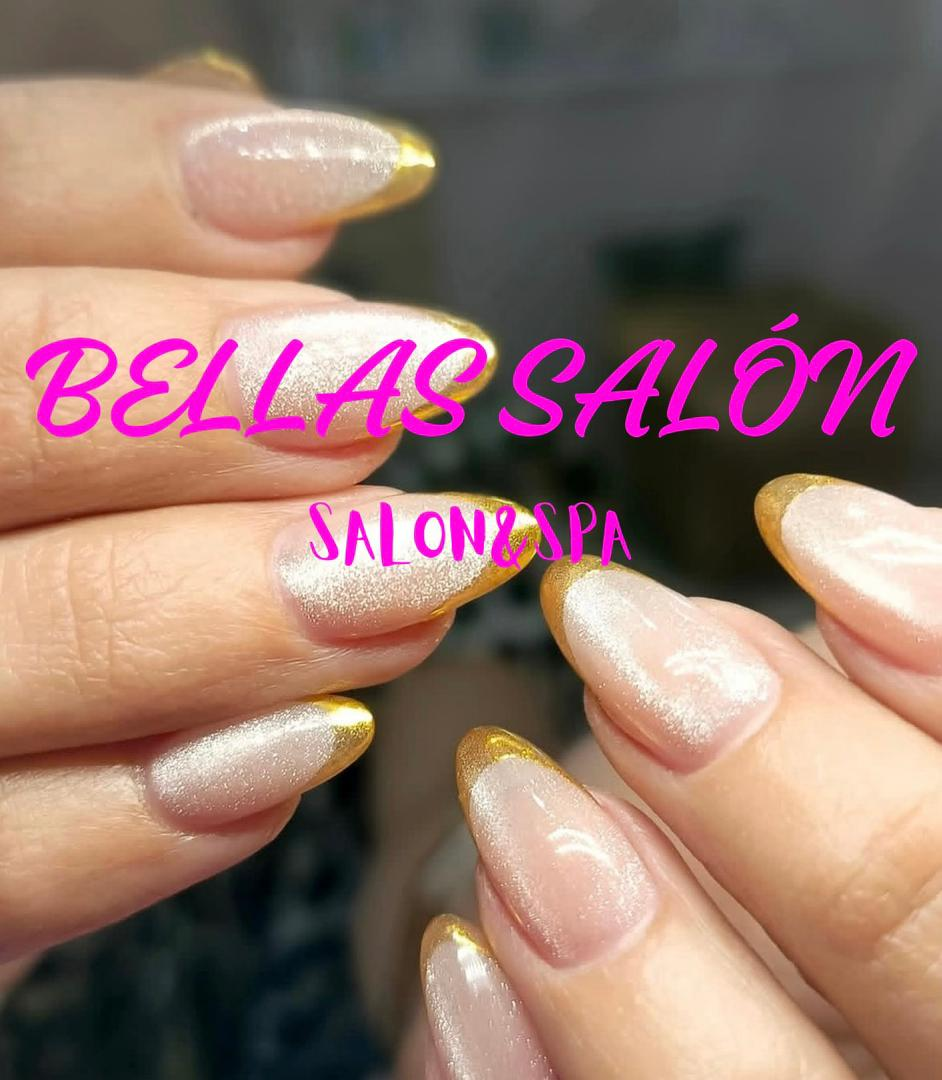
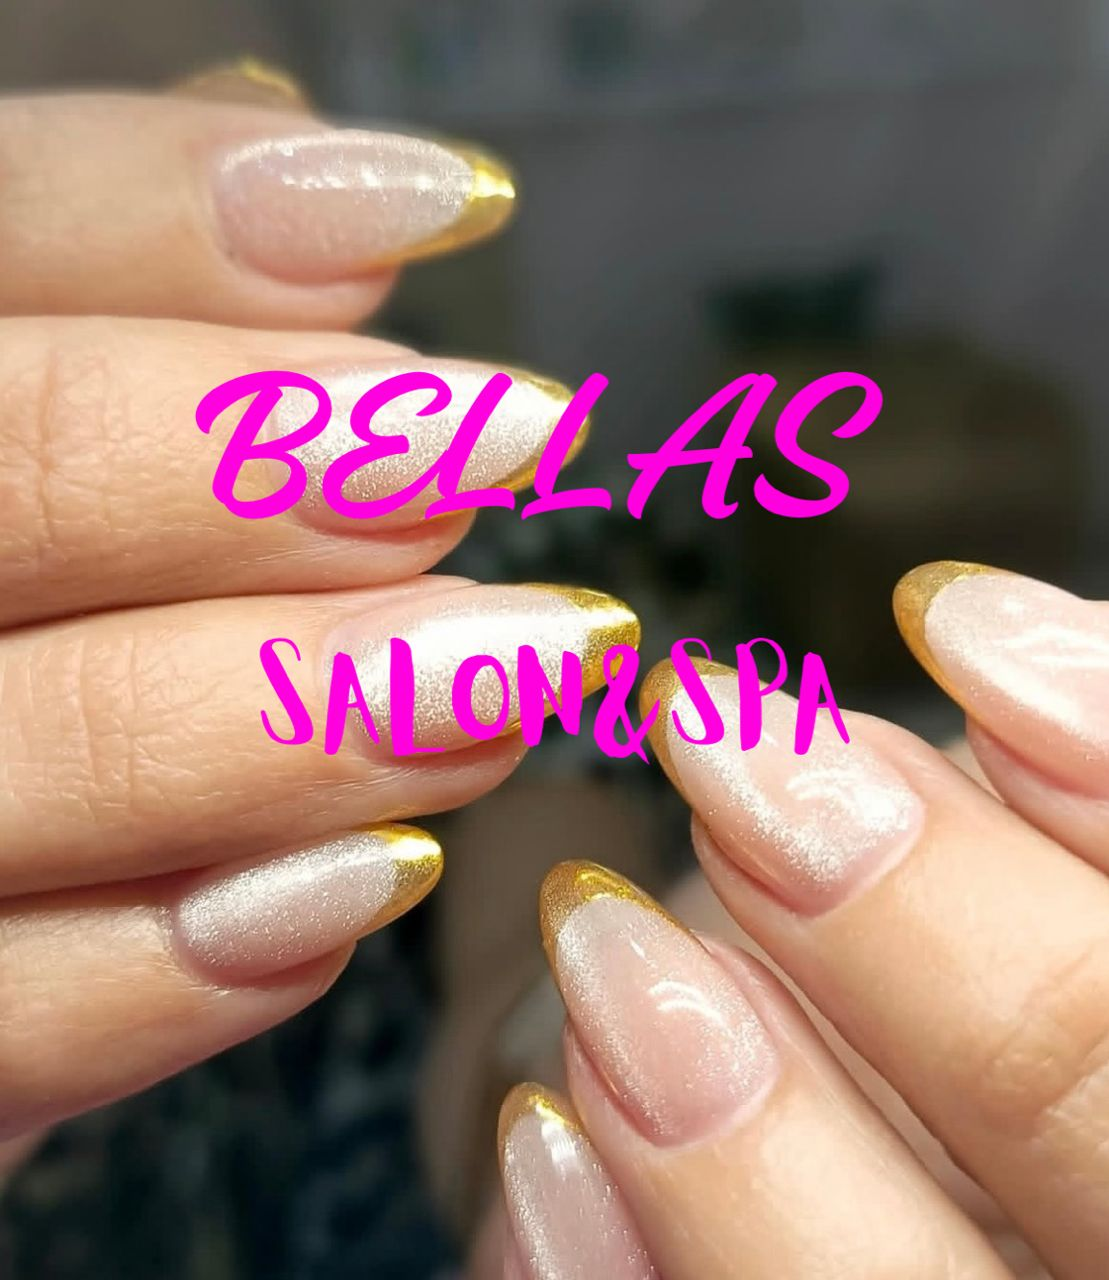
Add files via upload

diff --git a/credenciales.html b/credenciales.html
@@ -11,11 +11,11 @@
 
     <section class="main-info">
         <div class="container">
-            <h1 class="brand-name">BELLAS SALON SALON&SPA</h1>
+            <h1 class="brand-name">BELLAS  <br>SALON&SPA</h1>
             <div class="content-wrapper">
                 <div class="text-block">
                     <h2>Nuestra Trayectoria</h2>
-                    <p>Con más de <strong>12 años de experiencia</strong>, BELLAS SALON SALON&SPA ha nacido de la pasión por resaltar la belleza natural de cada mujer. Nos especializamos en <strong> manicura</strong> y <strong>tratamientos capilares avanzados ademas de ventas de productos</strong>, utilizando tecnología e productos de alta gama.</p>
+                    <p>Con más de <strong>  8 años de experiencia</strong>, BELLAS SALON&SPA ha nacido de la pasión por resaltar la belleza natural de cada mujer. Nos especializamos en <strong> manicura</strong> y <strong>tratamientos capilares avanzados ademas de ventas de productos</strong>, utilizando tecnología e productos de alta gama.</p>
                 </div>
                 
                 <div class="data-block">
@@ -23,7 +23,6 @@
                     <ul>
                         <li><strong>RIF:</strong> J-405236990</li>
                         <li><strong>Dirección:</strong> C.C Costa Granada, Local 8, Puerto Ordaz, Venezuela</li>
-                        <li><strong>Email:</strong> contacto@bellassalon.com</li>
                         <li><strong>Teléfono Personal:</strong> +58 414 930 5756</li>
                     </ul>
                 </div>
@@ -78,16 +77,16 @@
                 <div class="team-img-circle">
                     <img src="./img/imgt (1).jpeg" alt="Especialista en Uñas">
                 </div>
-                <h4>Ana</h4>
-                <span>Master en Nail Art</span>
+                <h4>Yani</h4>
+                <span>manicurista</span>
             </div>
 
             <div class="team-card">
                 <div class="team-img-circle">
                     <img src="./img/imgt (2).jpeg" alt="Especialista Capilar">
                 </div>
-                <h4>Carla</h4>
-                <span>Especialista Capilar</span>
+                <h4>Luisa</h4>
+                <span>estilista capilar</span>
             </div>
 
 
@@ -99,8 +98,8 @@
                 <div class="team-img-circle">
                     <img src="./img/imgt (5).jpeg" alt="Especialista Capilar">
                 </div>
-                <h4>fernanda</h4>
-                <span>Especialista Capilar</span>
+                <h4>Maria</h4>
+                <span>manicurista profesional</span>
             </div>
 
 
@@ -114,8 +113,8 @@
                 <div class="team-img-circle">
                     <img src="./img/imgt (7).jpeg" alt="Especialista Capilar">
                 </div>
-                <h4>mariana</h4>
-                <span>Especialista Capilar</span>
+                <h4>Heidi</h4>
+                <span>manicurista profesional</span>
             </div>
 
 
@@ -123,7 +122,7 @@
                 <div class="team-img-circle">
                     <img src="./img/imgt (8).jpeg" alt="Especialista Capilar">
                 </div>
-                <h4>luisa</h4>
+                <h4>Mari</h4>
                 <span>Especialista en manos y pies</span>
             </div>
 
@@ -166,7 +165,7 @@
     <footer class="main-footer">
         <div class="footer-container">
             <div class="footer-section">
-                <h4 class="footer-logo">BELLAS SALON SALON&SPA</h4>
+                <h4 class="footer-logo">BELLAS  SALON&SPA</h4>
                 <p class="footer-tagline">donde el lujo se encuentra con la belleza</p>
             </div>
 
@@ -176,12 +175,11 @@
                 <a href="credenciales.html">credenciales</a>
             </nav>
             <div class="footer-socials">
-                <a href="#" class="social-circle">IG</a>
-                <a href="#" class="social-circle">FB</a>
-                <a href="#" class="social-circle">TK</a>
+                <a href="https://www.instagram.com/bellassalonpzo?igsh=MW0xenlsbHk0dmU0dg==" class="social-circle">IG</a>
+ 
             </div>
             <div class="footer-copyright">
-                <p>&copy; 2026 BELLAS SALON SALON&SPA. Todos los derechos reservados.</p>
+                <p>&copy; 2026 BELLAS  SALON&SPA. Todos los derechos reservados.</p>
             </div>
         </div>
     </footer>

diff --git a/index.html b/index.html
@@ -3,8 +3,7 @@
 <head>
     <meta charset="UTF-8">
     <meta name="viewport" content="width=device-width, initial-scale=1.0">
-    <title>BELLAS salon
-        SALON&SPA</title>
+    <title>BELLAS salon&SPA</title>
     <link rel="stylesheet" href="styles1.css">
     <link href="https://fonts.googleapis.com/css2?family=Playfair+Display:ital,wght@0,400;0,700;1,400&family=Poppins:wght@300;400&display=swap" rel="stylesheet">
 </head>
@@ -12,8 +11,8 @@
 
 <nav class="navbar">
     <div class="nav-container">
-        <div class="nav-logo">BELLAS SALON <br>
-            <p class="subtitle1"> salon&SPA</p>
+        <div class="nav-logo">BELLAS <br>
+            <p class="subtitle1"> salon&SPA,ca</p>
         </div>
 
         <button class="menu-toggle" id="btn-menu">
@@ -59,21 +58,21 @@
     <header class="hero">
         <div class="hero-content">
             <div class="logo-box">
-                <h1>BELLAS SALON</h1>
-                <p>salon&spa</p>
+                <h1>BELLAS</h1>
+                <p class="subtitle">SALON&SPA,ca</p>
             </div>
             <p class="hero-tagline">Transforma tu belleza, por dentro y por fuera en BELLAS SALON SALON&SPA.</p>
             <a href="reservar.html" class="btn-black">RESERVAR CITA</a>
         </div>
         <div class="hero-image">
-            <img src="./img/logo.jpeg" alt="Modelo Principal">
+            <img src="./img/logo (2).jpeg" alt="Modelo Principal">
         </div>
     </header>
 
     <section class="intro">
         <div class="intro-title">
             <span class="label">UN LUGAR DONDE</span>
-            <h2>BELLEZA & LUJO <span class="italic-pink">se encuentran</span></h2>
+            <h2>BELLEZA & LUJO <span class="italic-pink"> <br>se encuentran</span></h2>
         </div>
         <div class="intro-text">
             <p>Bienvenido a BELLAS SALON, donde la belleza y el lujo se encuentran.</p>
@@ -89,7 +88,7 @@
             <div class="service-info">
                 <h3 class="cursive-title">Tratamientos capilares</h3>
                 <p>¡Bienvenido a nuestro mundo de perfeccion y agenda un servicios capilar unico! Nuestros servicios de peluqueria están diseñados para realzar tu belleza natural y sacar tu brillo interior.</p>
-                <a href="reservar" class="btn-outline">RESERVAR</a>
+                <a href="reservar.html" class="btn-outline">RESERVAR</a>
             </div>
            
         </article>
@@ -127,16 +126,15 @@
             </div>
 
             <div class="footer-socials">
-                <a href="#" class="social-circle">IG</a>
-                <a href="#" class="social-circle">FB</a>
-                <a href="#" class="social-circle">TK</a>
+                <a href="https://www.instagram.com/bellassalonpzo?igsh=MW0xenlsbHk0dmU0dg==" class="social-circle">IG</a>
+
            
             </div>
 
         </div>
 
         <div class="footer-copyright">
-            <p>&copy; 2026 BELLAS SALON SALON&SPA. Todos los derechos reservados.</p>
+            <p>&copy; 2026 BELLAS SALON&SPA,ca. Todos los derechos reservados.</p>
         </div>
     </footer>
 

diff --git a/reservar.html b/reservar.html
@@ -86,7 +86,7 @@
     <footer class="main-footer">
         <div class="footer-container">
             <div class="footer-brand">
-                <h4 class="footer-logo">BELLAS SALON SALON&SPA</h4>
+                <h4 class="footer-logo">BELLAS  SALON&SPA,ca</h4>
                 <p>donde la belleza y el lujo se encuentran.</p>
             </div>
 
@@ -98,13 +98,11 @@
             </nav>
 
             <div class="footer-socials">
-                <a href="#" class="social-btn">IG</a>
-                <a href="#" class="social-btn">FB</a>
-                <a href="#" class="social-btn">TK</a>
-            </div>
+                <a href="https://www.instagram.com/bellassalonpzo?igsh=MW0xenlsbHk0dmU0dg==" class="social-btn">IG</a>
+
 
             <div class="footer-copy">
-                <p>&copy; 2026 BELLAS SALON SALON&SPA. Todos los derechos reservados.</p>
+                <p>&copy; 2026 BELLAS  SALON&SPA. Todos los derechos reservados.</p>
             </div>
         </div>
     </footer>
@@ -137,7 +135,7 @@
 
         // 1. CONFIGURACIÓN DEL NÚMERO
         // Importante: Solo números. Ej: 5491123456789
-        const miTelefono = "584149865262"; 
+        const miTelefono = "584249305756"; 
 
         // 2. RECOLECTAR DATOS
         const nombre = document.getElementById('user_name').value;
